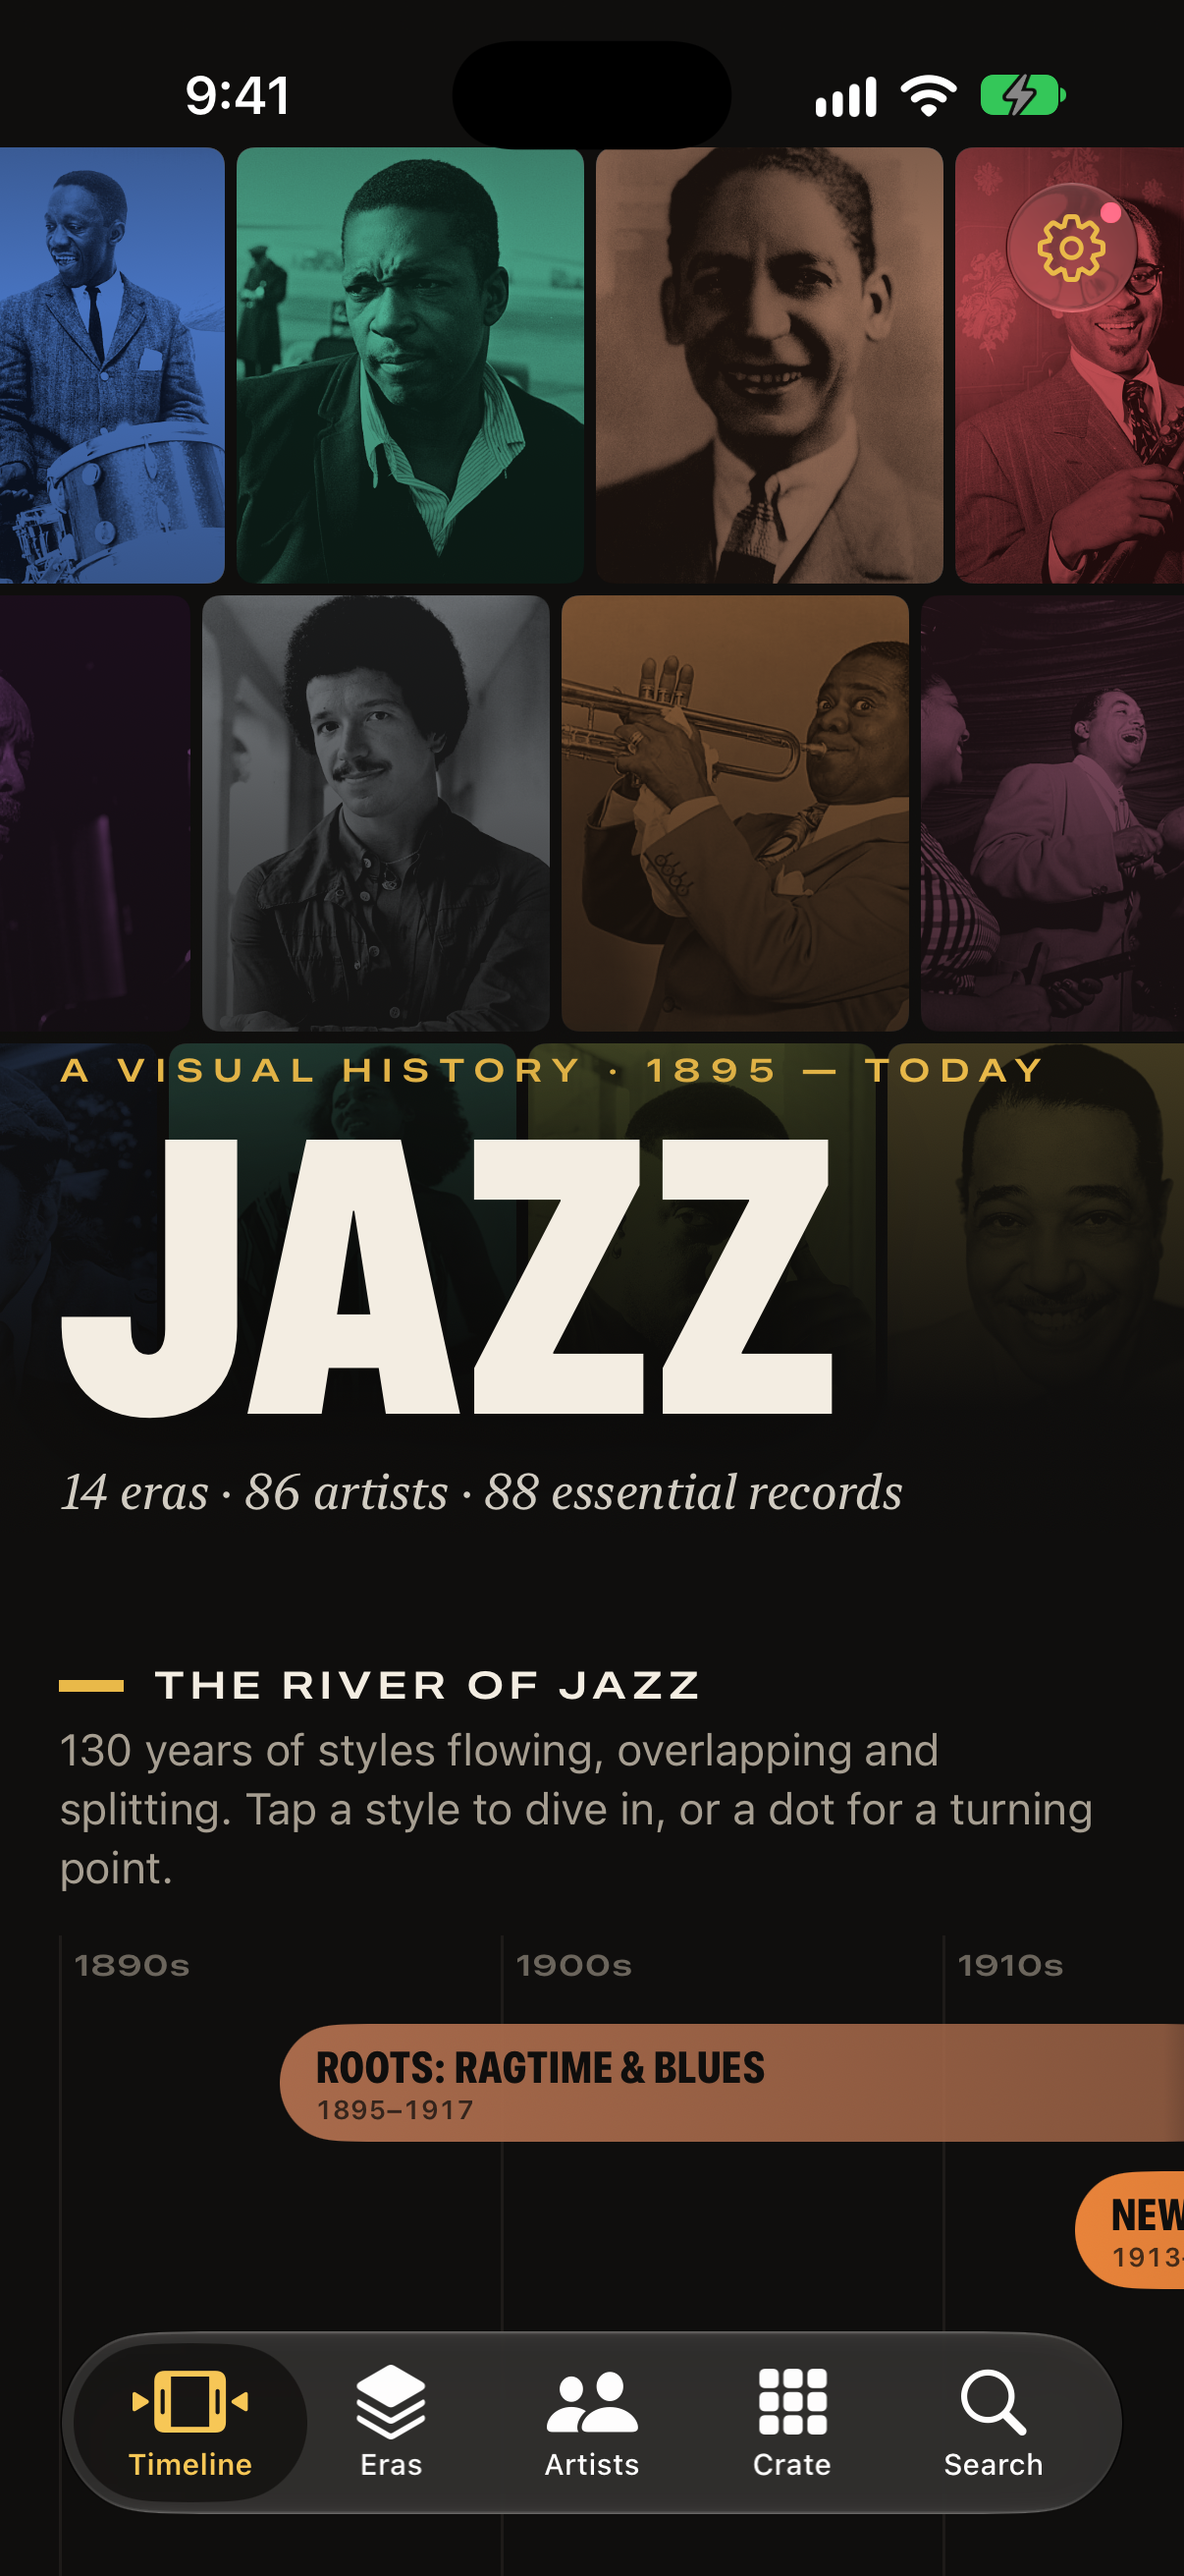
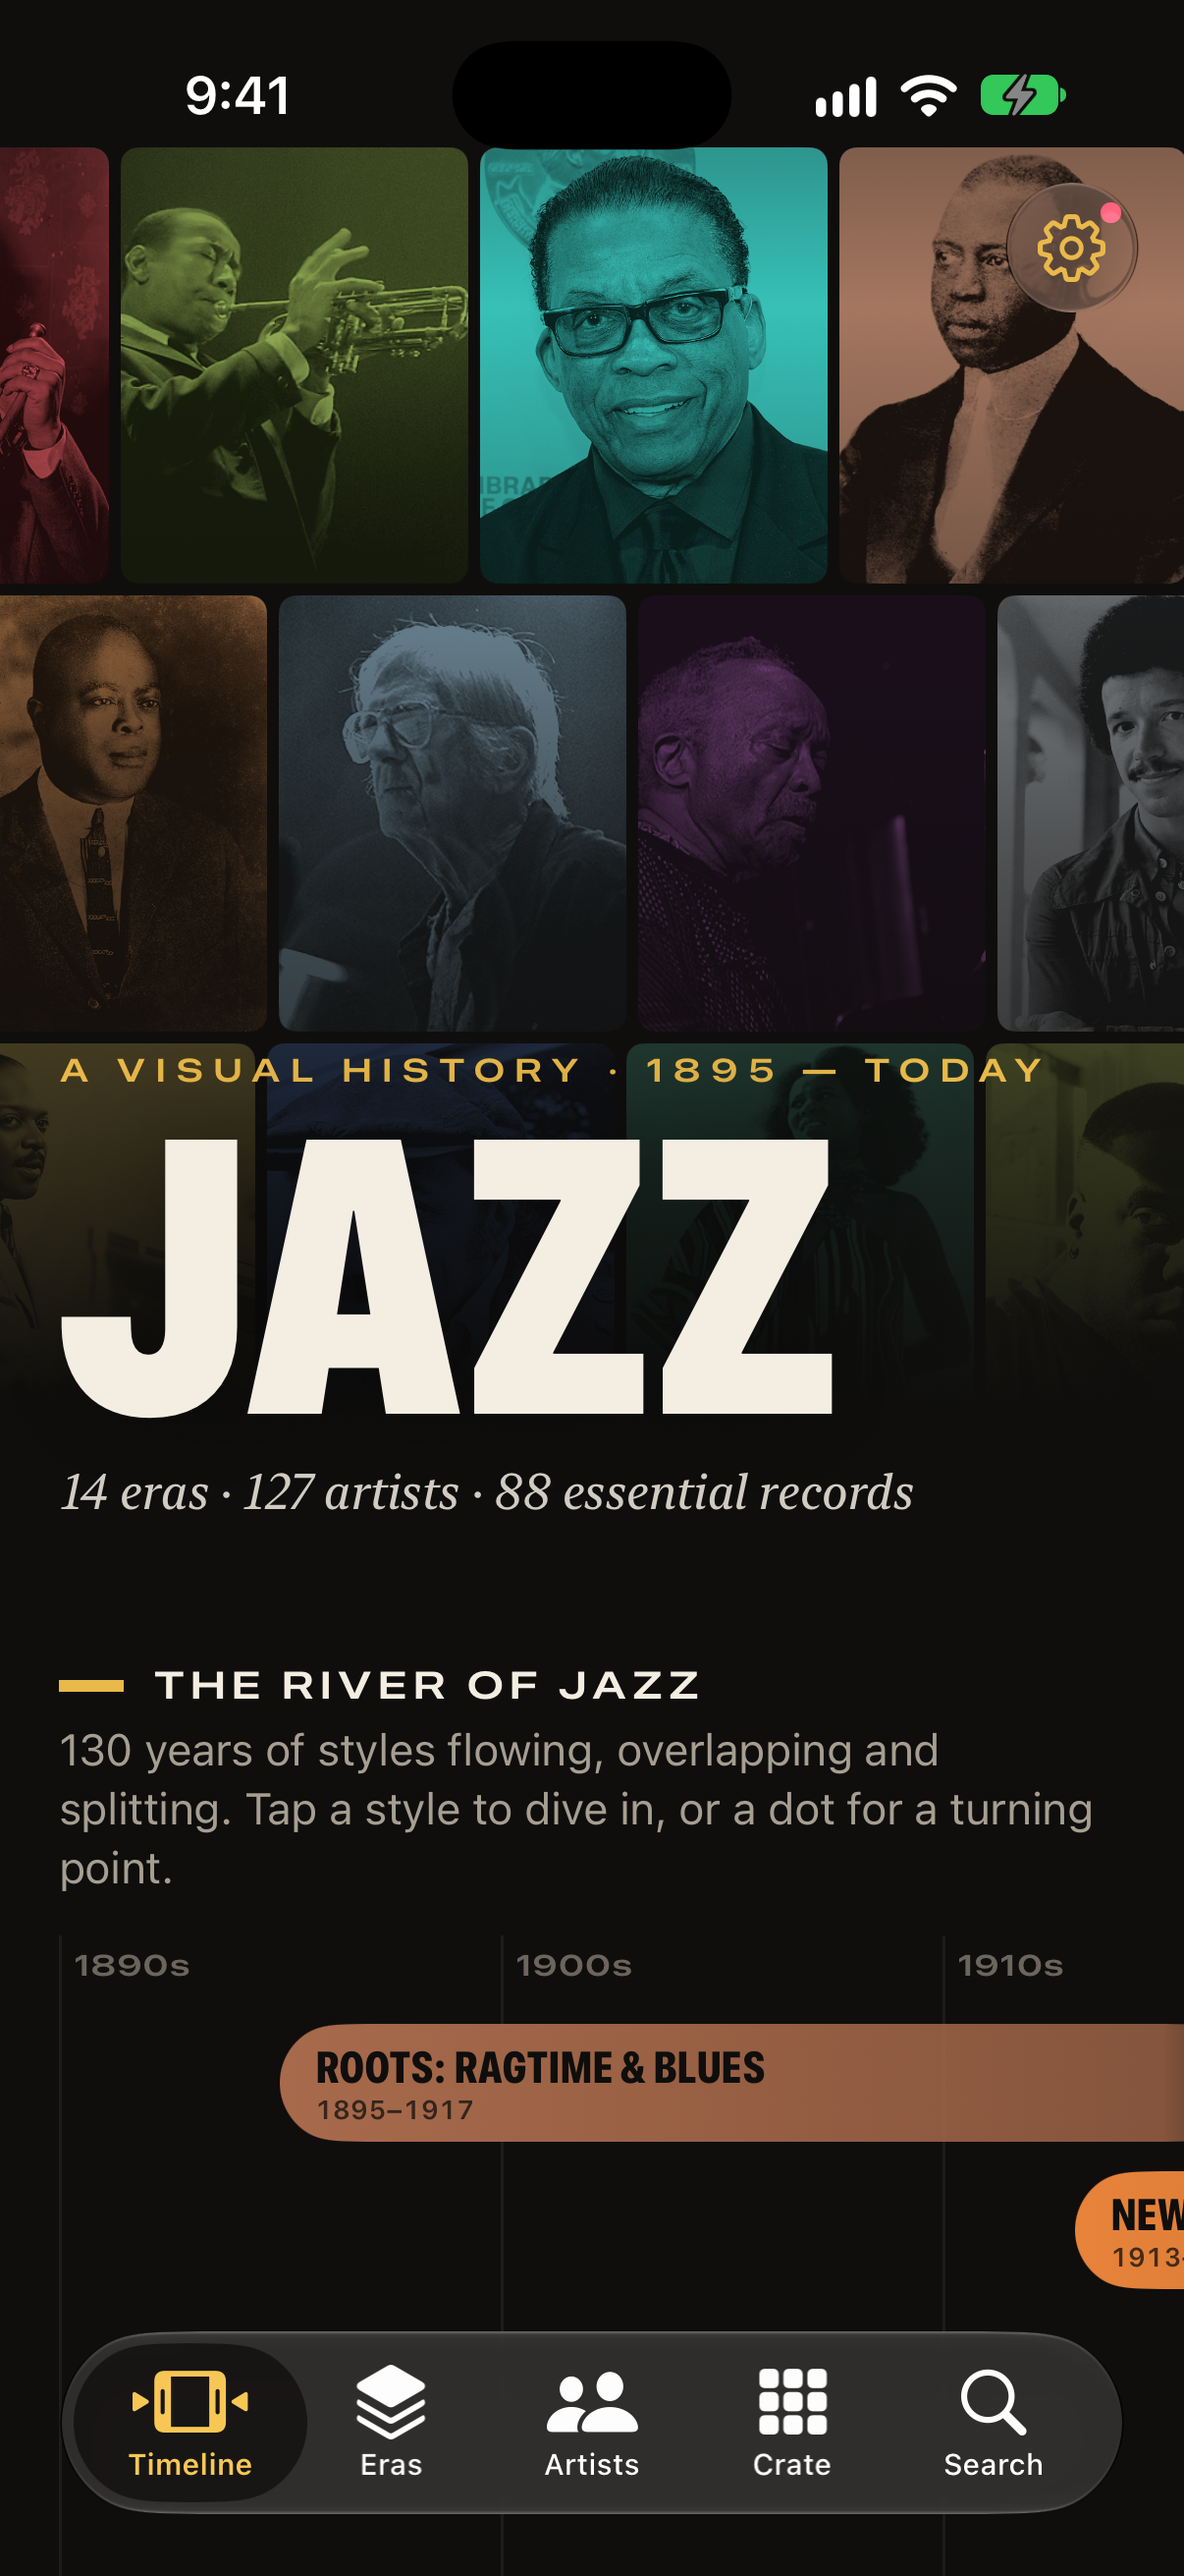
Release 1.1.0: listing text, screenshots, home faces fix
- Mac home: each era's face is a different artist (Miles Davis led three).
- iPhone Connections: decade labels thin out when zoomed out, and a path keeps
  room for the names at either end.
- App Store listing text and screenshots for 1.1; the Connections shot shows a path.
- Version 1.1.0, changelog section, roadmap status.

Changed region(s): [[0.0, 0.0309, 1.0, 0.4943], [0.2148, 0.5561, 0.767, 0.587]]

diff --git a/iOS/JazzDiscoveryMobile/ConnectionsMap.swift b/iOS/JazzDiscoveryMobile/ConnectionsMap.swift
@@ -162,7 +162,8 @@ struct ConnectionsMapView: View {
         guard let x0 = points.map(\.x).min(), let x1 = points.map(\.x).max(),
               let y0 = points.map(\.y).min(), let y1 = points.map(\.y).max() else { return }
         let card: CGFloat = 400
-        let usable = CGSize(width: viewport.width - 60, height: viewport.height - insets.top - card - 40)
+        // Names are centred under the faces, so the ends need room for half a name each side.
+        let usable = CGSize(width: viewport.width - 160, height: viewport.height - insets.top - card - 40)
         let z = max(MapCamera.minZoom, min(1, usable.width / max(x1 - x0, 1), usable.height / max(y1 - y0, 1)))
         camera.zoom = z
         camera.offset = CGPoint(x: viewport.width / 2 - (x0 + x1) / 2 * z,
@@ -340,9 +341,12 @@ private struct GraphMap: View {
 
     /// Decade labels pinned under the navigation bar, so you always know when you are, and the eras as a ribbon.
     private func drawRuler(in ctx: inout GraphicsContext, size: CGSize, cam: MapCamera) {
+        // Zoomed out, the decades crowd together: skip any label that would run into the one before it.
+        var lastLabel = -CGFloat.infinity
         for d in layout.decades {
             let x = layout.x(forYear: d) * cam.zoom + cam.offset.x
-            guard x > -60, x < size.width + 60 else { continue }
+            guard x > -60, x < size.width + 60, x >= lastLabel + 44 else { continue }
+            lastLabel = x
             ctx.draw(Text("\(String(d))s").font(Theme.label(10)).foregroundStyle(Theme.muted),
                      at: CGPoint(x: x + 5, y: topInset + 10), anchor: .leading)
         }

diff --git a/JazzDiscovery/Views/HomeView.swift b/JazzDiscovery/Views/HomeView.swift
@@ -54,8 +54,13 @@ struct HomeHero: View {
     @Environment(JazzLibrary.self) private var library
 
     private var faces: [(Artist, Color)] {
-        library.eras.compactMap { era in
-            library.artist(era.keyArtists.first ?? "").map { ($0, era.tint) }
+        // Each era's first key artist who isn't already shown: Miles Davis leads three eras.
+        var shown = Set<String>()
+        return library.eras.compactMap { era in
+            guard let artist = era.keyArtists.lazy.compactMap({ library.artist($0) }).first(where: { !shown.contains($0.id) })
+            else { return nil }
+            shown.insert(artist.id)
+            return (artist, era.tint)
         }
     }
 

diff --git a/CHANGELOG.md b/CHANGELOG.md
@@ -6,6 +6,18 @@ section for the tagged version at the top of the GitHub release notes (or **Unre
 
 ## Unreleased
 
+## 1.1.0
+
+- **Personnel**: album pages list who played on the record, set like the credits on an LP's back cover, with when and
+  where it was recorded and who produced, arranged and engineered it. Players with a page in the app link to it, and
+  on the Mac, pointing at a track dims the players who aren't on it. 86 of the 88 albums so far, each checked by hand
+  against the liner notes, Wikipedia or a discography.
+- **Sidemen**: 41 more artists, the players all over the records in the Crate: Ron Carter, Paul Chambers, Billy Higgins,
+  Tony Williams, Wynton Kelly, Joe Henderson, Johnny Hodges, Jimmy Blanton, Lil Hardin Armstrong and more, including
+  the guide's first trombonists, vibraphonists, percussionists, a harpist and a flutist. Their pages show the records
+  they play on (*Also Plays On*, with their instrument on each), and so do the pages of everyone already in the guide.
+- Artists can be filtered to **Leaders** or **Sidemen**, and search also finds players who don't have a page yet,
+  with the records they're on.
 - **Connections** now come from the records: two artists are linked when they play on the same album, and the more
   records they share, the thicker the line. Links that aren't on a record (a mentor, a band before the Crate's
   records, an influence, a duo) each say what they were. Select a face, then another in their circle, to see what
@@ -13,20 +25,12 @@ section for the tagged version at the top of the GitHub release notes (or **Unre
 - **Find a Path** on the Connections map: the shortest chain of records and bonds between any two artists (Scott
   Joplin to Nubya Garcia is nine links), drawn on the map and listed step by step, with *Play the Path*: one track
   from each link, in order. Links like `jazzdiscovery://between/miles-davis/nubya-garcia` open it.
-- **Sidemen**: 41 more artists, the players all over the records in the Crate: Ron Carter, Paul Chambers, Billy Higgins,
-  Tony Williams, Wynton Kelly, Joe Henderson, Johnny Hodges, Jimmy Blanton, Lil Hardin Armstrong and more, including
-  the guide's first trombonists, vibraphonists, percussionists, a harpist and a flutist. Their pages show the records
-  they play on (*Also Plays On*, with their instrument on each), and so do the pages of everyone already in the guide.
-- Artists can be filtered to **Leaders** or **Sidemen**, and search also finds players who don't have a page yet,
-  with the records they're on.
-- **Personnel**: album pages list who played on the record, set like the credits on an LP's back cover, with when and
-  where it was recorded and who produced, arranged and engineered it. Players with a page in the app link to it, and
-  on the Mac, pointing at a track dims the players who aren't on it. 86 of the 88 albums so far, each checked by hand
-  against the liner notes, Wikipedia or a discography.
-- *Black Radio* plays the 2012 album; it had been matched to *Black Radio 2* on Apple Music.
-- Sonny Rollins (1930–2026) and Cassandra Wilson (1955–2026), who died this year, are shown with their dates.
 - Mac: `jazzdiscovery://` links open pages in the Mac app too (`jazzdiscovery://artist/miles-davis`, `era/bebop`,
   `album/kind-of-blue`…), as they already did on iPhone.
+- *Black Radio* plays the 2012 album; it had been matched to *Black Radio 2* on Apple Music.
+- Mac: the faces at the top of the home screen no longer show Miles Davis three times (he leads three eras); each era
+  shows a different artist.
+- Sonny Rollins (1930–2026) and Cassandra Wilson (1955–2026), who died this year, are shown with their dates.
 
 ## 1.0.1
 

diff --git a/docs/app-store.md b/docs/app-store.md
@@ -171,10 +171,13 @@ reason" API the app uses (UserDefaults, CA92.1).
 
 ### Version text
 
+This text is for 1.1 (127 artists, personnel, Find a Path). If 1.0.1 is submitted on its own first, say "86 artists"
+and leave out the *Who played on what* paragraph and the path-finding sentence.
+
 **Promotional text** (170 characters, can change any time without review):
 
 ```
-Fourteen eras, 86 artists and 88 essential records, from ragtime to today. Play them with Apple Music, watch them on YouTube and scrobble to Last.fm.
+127 artists and 88 essential records, from ragtime to today, with who played on every one. Find the path between any two players, and listen as you go.
 ```
 
 **Keywords** (100 characters):
@@ -194,14 +197,17 @@ Fourteen styles flow across a timeline like river channels, overlapping where th
 Eras and decades
 Each era has its story, its sound, the places it happened, its key artists and essential records, tracks to play, documentaries and performances, and a picture archive. Or travel by decade, from the 1890s to the 2020s: the styles in the air, the turning points, the records and who was playing.
 
-86 artists
-Players, singers and composers in Blue Note–style duotone portraits, filterable by era and instrument, each with a biography, their most popular songs, their records, live videos and the people they played with.
+127 artists
+Leaders and the sidemen all over their records, in Blue Note–style duotone portraits, filterable by era and instrument, each with a biography, their most popular songs, their records, the records they play on, live videos and the people they played with.
 
 The Crate
 88 essential albums, by decade, with why each one matters, its tracklist and the tracks to start with. New to jazz? Follow the Start Here path, one record at a time.
 
+Who played on what
+Every album lists its band like the back of an LP: who played what, who sat out which track, when and where it was recorded, and who produced it, checked against the liner notes and discographies.
+
 Connections
-A map of who played with whom across the whole century: pinch around it, tap a face, and watch their circle light up.
+A map of who played with whom across the whole century, drawn from the records they share: tap a face to light up their circle, and another to see what ties them. Find the shortest path between any two artists, from Scott Joplin to Nubya Garcia, and play one track from each link.
 
 Listen and watch
 Connect Apple Music to play every song and album in full; without a subscription you hear 30-second previews, and everything opens in the Music app with one tap. Playback continues on the lock screen and works with AirPlay. Videos play right in the app.
@@ -227,5 +233,5 @@ Last.fm (optional): Settings > Last.fm connects the user's own Last.fm account, 
 
 Background audio is used only to keep music playing while the phone is locked.
 
-Suggested path: Timeline (scroll the River of Jazz sideways and tap a style), an era page, an artist (Artists tab), an album (Crate tab) and its Play button, Artists > Connections (pinch and tap faces), and Search.
+Suggested path: Timeline (scroll the River of Jazz sideways and tap a style), an era page, an artist (Artists tab), an album (Crate tab) with its Personnel and Play button, Artists > Connections (pinch and tap faces, then the path button at the top to find a path between two artists), and Search.
 ```

diff --git a/docs/roadmap/1.1-sessions-and-sidemen.md b/docs/roadmap/1.1-sessions-and-sidemen.md
@@ -1,5 +1,9 @@
 # 1.1 — Sessions & Sidemen
 
+*Released as 1.1.0 on 2026-11-18. As built: 86 of 88 albums reviewed (two still drafts, no source for their players);
+41 sidemen; 104 bonds, 9 hand-picked connections dropped as unsupported; the path finder link is
+`between/<artist>/<artist>`.*
+
 *Kind of Blue* prints its band on the cover, but the app doesn't know John Coltrane is on it. This release teaches the
 data who played on every record, and builds on that three ways: sidemen become people you can follow, Connections
 lines say why they exist, and you can ask for the path between any two artists.

diff --git a/docs/roadmap/README.md b/docs/roadmap/README.md
@@ -2,6 +2,10 @@
 
 *Written 2026-11-17, against `main` at 452078b (Mac 1.0.0 released; the iPhone app built, not yet on the App Store).*
 
+**Status (2026-11-18):** 1.0.1 and 1.1 are released (`v1.0.1`, `v1.1.0`). 1.1 shipped with 86 of the 88 albums'
+personnel reviewed: Bix Beiderbecke's *Singin' the Blues* and Mongo Santamaría's *Watermelon Man!* still need a source
+for their players. Next: 1.2, Passport.
+
 Today the app is a beautiful encyclopedia: 14 eras, 86 artists, 88 records and 40 milestones, and every screen is
 browse → read → play. This roadmap adds three things it doesn't have:
 
